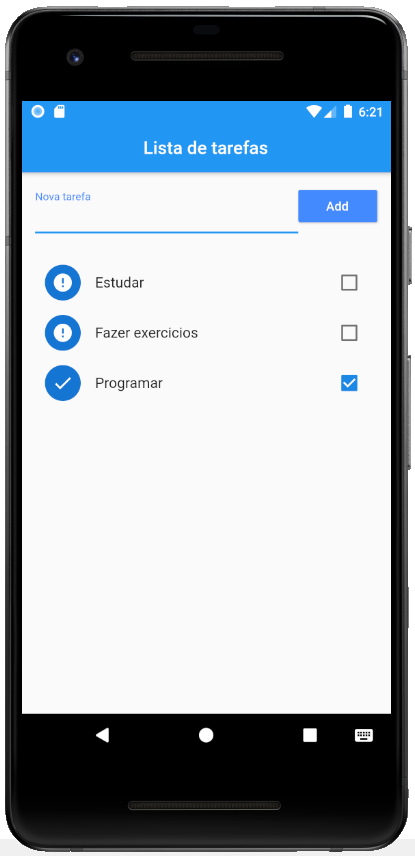
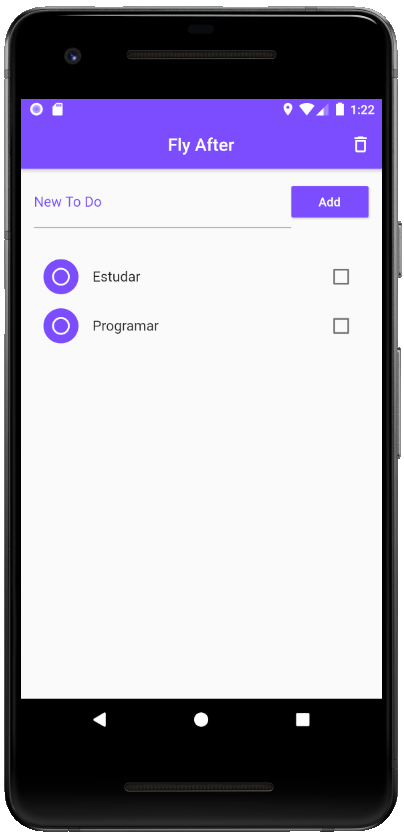
Update 04/09/20

diff --git a/lib/main.dart b/lib/main.dart
@@ -48,6 +48,17 @@ class _HomeState extends State<Home> {
     });
   }
 
+  void removeCheck(){
+    setState(() {
+      for(var i=0; i < _toDoList.length; i++){
+        if (_toDoList[i]["ok"] == true ){
+          _toDoList.removeAt(i);
+        }
+      }
+      _saveData();
+    });
+  }
+
   Future<Null> _refresh() async {
     await Future.delayed(Duration(seconds: 1));
 
@@ -71,9 +82,16 @@ class _HomeState extends State<Home> {
   Widget build(BuildContext context) {
     return Scaffold(
       appBar: AppBar(
-          title: Text("Lista de tarefas"),
-          backgroundColor: Colors.blue,
-          centerTitle: true),
+        title: Text("Fly After"),
+        centerTitle: true,
+        backgroundColor: Colors.deepPurpleAccent,
+        actions: <Widget>[
+          IconButton(
+            icon: Icon(Icons.delete_outline, color: Colors.white),
+            onPressed: removeCheck,
+          )
+        ],
+      ),
       body: Column(
         children: <Widget>[
           Container(
@@ -84,14 +102,14 @@ class _HomeState extends State<Home> {
                   child: TextField(
                     controller: _toDoController,
                     decoration: InputDecoration(
-                        labelText: "Nova tarefa",
-                        labelStyle: TextStyle(color: Colors.blueAccent)),
+                        labelText: "New To Do",
+                        labelStyle: TextStyle(color: Colors.deepPurpleAccent)),
                   ),
                 ),
-                RaisedButton(
-                  color: Colors.blueAccent,
+                OutlineButton(
+                  color: Colors.deepPurpleAccent,
                   child: Text("Add"),
-                  textColor: Colors.white,
+                  textColor: Colors.deepPurpleAccent,
                   onPressed: _addToDo,
                 )
               ],
@@ -116,7 +134,7 @@ class _HomeState extends State<Home> {
     return Dismissible(
       key: Key(DateTime.now().millisecondsSinceEpoch.toString()),
       background: Container(
-        color: Colors.red,
+        color: Colors.deepPurpleAccent,
         child: Align(
           alignment: Alignment(-0.9, 0.0),
           child: Icon(Icons.delete, color: Colors.white),
@@ -127,7 +145,7 @@ class _HomeState extends State<Home> {
         title: Text(_toDoList[index]["title"]),
         value: _toDoList[index]["ok"],
         secondary: CircleAvatar(
-          child: Icon(_toDoList[index]["ok"] ? Icons.check : Icons.error),
+          child: Icon(_toDoList[index]["ok"] ? Icons.check_circle : Icons.radio_button_unchecked, color: Colors.white), backgroundColor: Colors.deepPurpleAccent,
         ),
         onChanged: (check) {
           setState(() {
